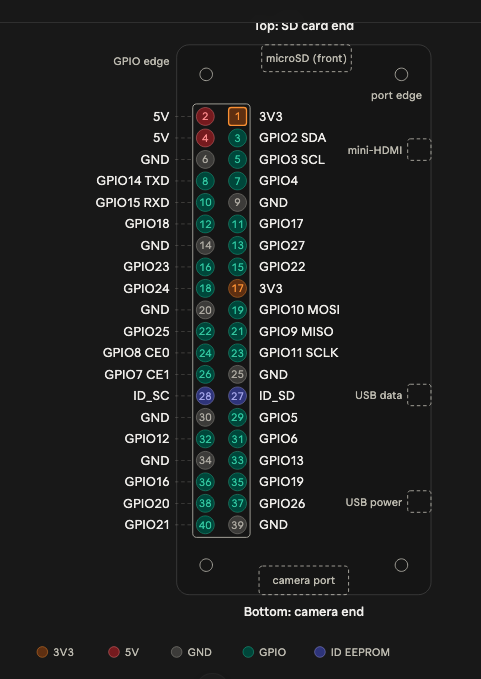
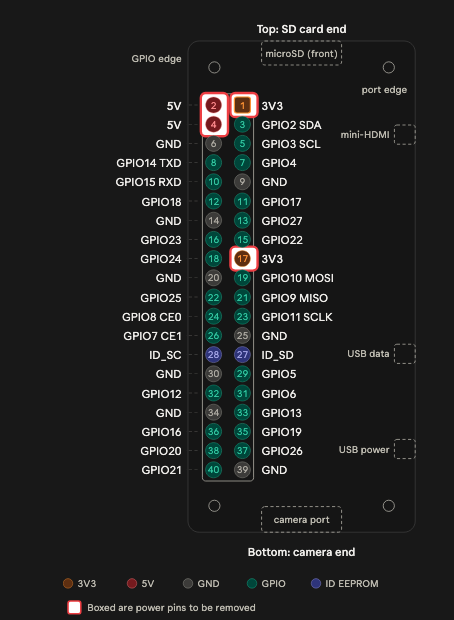
Updated images and AI policy. Claude is credited in firmware/README.md

diff --git a/AI_Policy.md b/AI_Policy.md
@@ -3,10 +3,16 @@
 AI is terrible at writing code, but past brilliant at code reviews.
 AI is particular bad at writing Verilog because it is not thinking
 about the circuit design while it is doing so.  Accordingly AI is used
-for answering questions, and for code reviews, but not for writing.
+for answering questions, and for code reviews, but not for writing code 
+nor text.
 
-A huge advantage of this approach is that the author's skills improve. 
+A huge advantage of AI doing code reviews is that the author's 
+coding skills improve. 
+
+AI is much better than I am at technical drawing, so it is used for 
+documentation drawings. 
 
 I apologize, there were a few instances where the AI wrote a few lines of 
 code, typically RPi Linux configuration commands.   When such code is spotted,
-it is carefuly reviewed and an attribution comment is added 
+it is carefuly tested and reviewed and an attribution comment is added 
+

diff --git a/firmware/README.md b/firmware/README.md
@@ -27,3 +27,9 @@ The default installation automatically detects a camera.
 While waiting for a RPi compatible camera to arrive, a test pattern generator 
 can be used to test the rest of the system. A number of test pattern 
 generators are available. It is also possible to display a stored image. 
+
+
+## AI Use
+
+Since I have never before configured a Raspberry Pi, claude wrote the
+configuration commands.
